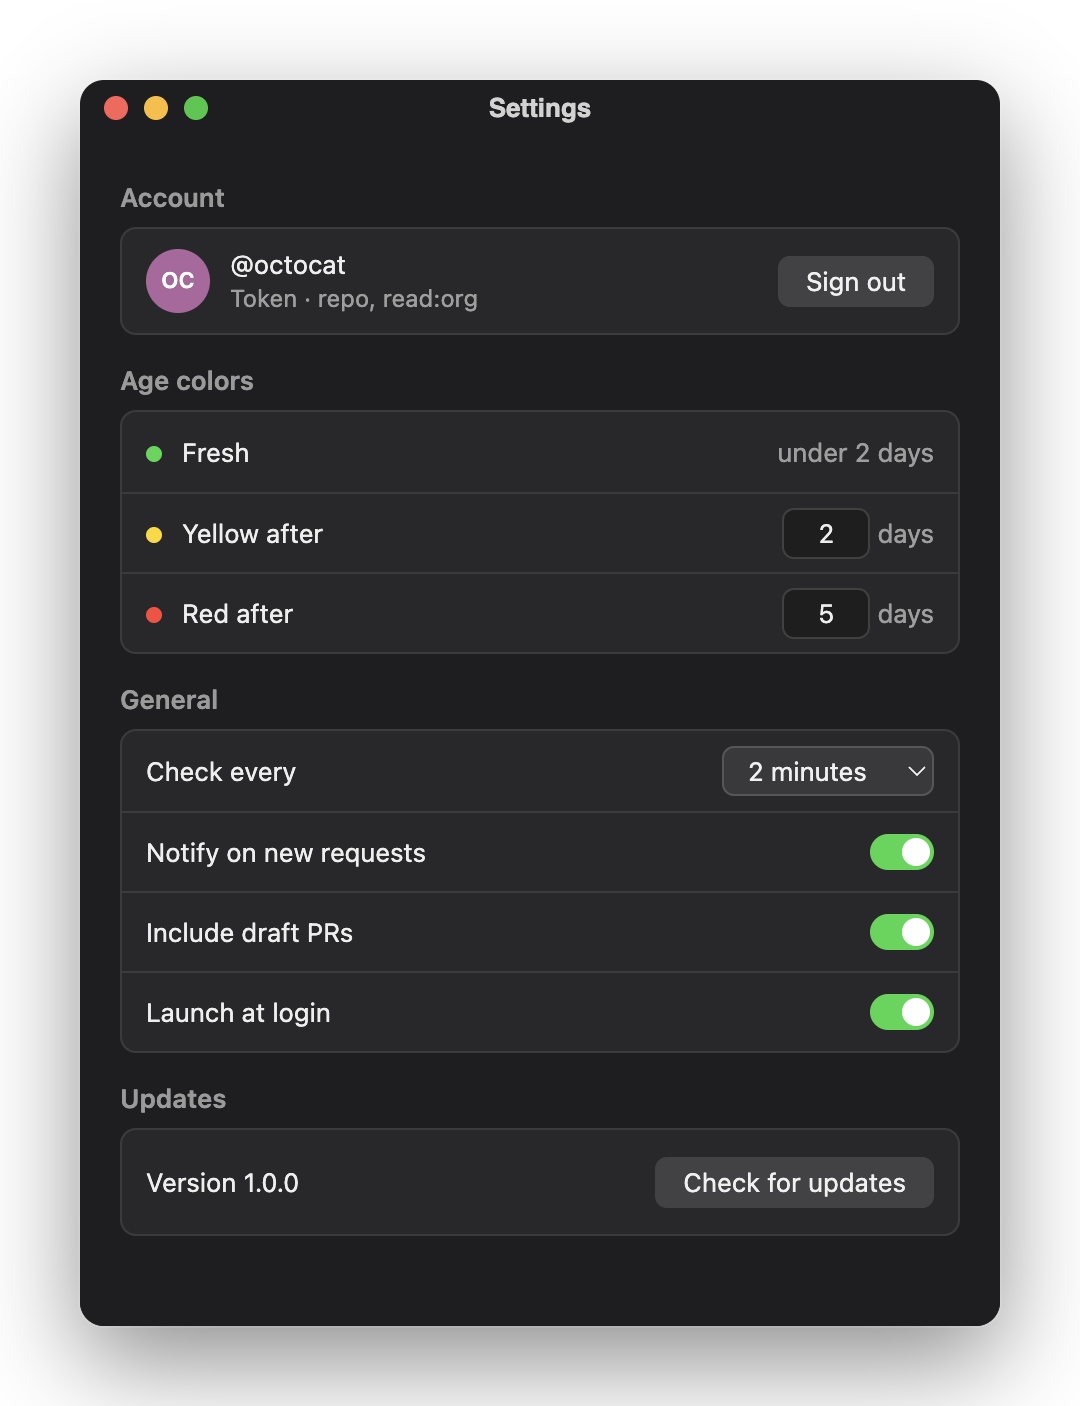
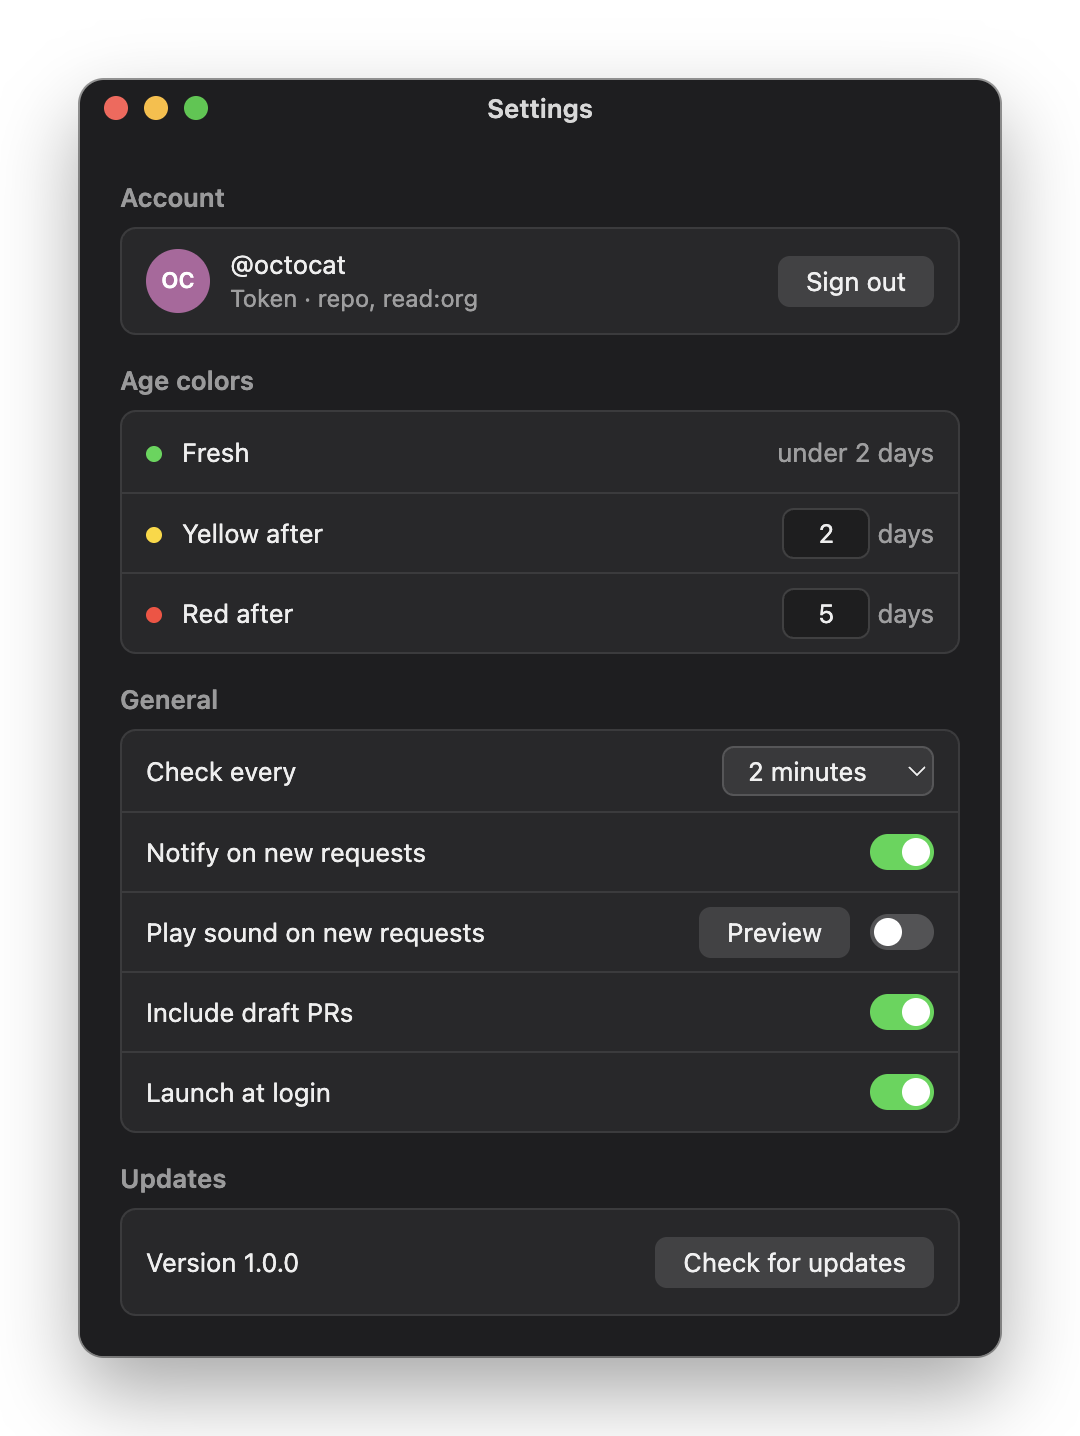
Add optional sound for new review requests

diff --git a/src/main/main.js b/src/main/main.js
@@ -1,4 +1,5 @@
 const path = require('node:path');
+const { execFile } = require('node:child_process');
 const { pathToFileURL } = require('node:url');
 const {
   app,
@@ -26,6 +27,9 @@ const RENDERER_URL = `${pathToFileURL(RENDERER).href}/`;
 const PRELOAD = path.join(__dirname, '..', 'preload.js');
 const MAX_TRAY_IMAGE_LENGTH = 500_000;
 const TRAY_REOPEN_GUARD_MS = 250;
+const SOUND = app.isPackaged
+  ? path.join(process.resourcesPath, 'new-request.mp3')
+  : path.join(__dirname, '..', '..', 'assets', 'new-request.mp3');
 
 let tray = null;
 let panel = null;
@@ -89,9 +93,15 @@ function push() {
   if (panel && !panel.isDestroyed()) panel.webContents.send('state', currentView());
 }
 
-function notify({ title, subtitle, body, url }) {
+function playSound() {
+  execFile('/usr/bin/afplay', [SOUND], (error) => {
+    if (error) console.warn('Could not play the notification sound:', error.message);
+  });
+}
+
+function notify({ title, subtitle, body, url, silent = false }) {
   if (!Notification.isSupported()) return;
-  const notification = new Notification({ title, subtitle, body, silent: false });
+  const notification = new Notification({ title, subtitle, body, silent });
   liveNotifications.add(notification);
   const release = () => liveNotifications.delete(notification);
   notification.on('click', () => {
@@ -117,9 +127,17 @@ function recordRequests() {
   }
   store.update({ known: Object.fromEntries(tracked.known), unseen, initialized: true, knownWithTeams: hasTeams });
   if (!settings.notify) return;
-  for (const pr of tracked.fresh.filter(isVisible)) {
-    notify({ title: 'New review request', subtitle: `${pr.repo} #${pr.number} · ${pr.author}`, body: pr.title, url: pr.url });
+  const fresh = tracked.fresh.filter(isVisible);
+  for (const pr of fresh) {
+    notify({
+      title: 'New review request',
+      subtitle: `${pr.repo} #${pr.number} · ${pr.author}`,
+      body: pr.title,
+      url: pr.url,
+      silent: true,
+    });
   }
+  if (fresh.length > 0 && settings.sound) playSound();
 }
 
 async function poll() {
@@ -315,7 +333,7 @@ function showSettings() {
   }
   settingsWindow = new BrowserWindow({
     width: 460,
-    height: 595,
+    height: 642,
     resizable: false,
     minimizable: false,
     maximizable: false,
@@ -341,6 +359,7 @@ function settingsView() {
     intervalMinutes: settings.intervalMinutes,
     intervals: INTERVALS,
     notify: settings.notify,
+    sound: settings.sound,
     includeDrafts: settings.includeDrafts,
     launchAtLogin: app.getLoginItemSettings().openAtLogin,
     version: app.getVersion(),
@@ -385,6 +404,7 @@ function registerIpc() {
   on('open-settings', showSettings);
   on('quit', () => app.quit());
   on('close-panel', hidePanel);
+  on('preview-sound', playSound);
 
   on('panel-height', (_event, height) => {
     const value = Math.min(Math.max(Math.ceil(Number(height) || 0), 120), PANEL_MAX_HEIGHT);
@@ -413,6 +433,7 @@ function registerIpc() {
       redDays: Number(input.redDays),
       intervalMinutes: Number(input.intervalMinutes),
       notify: Boolean(input.notify),
+      sound: Boolean(input.sound),
       includeDrafts: Boolean(input.includeDrafts),
     });
     if (app.getLoginItemSettings().openAtLogin !== Boolean(input.launchAtLogin)) {

diff --git a/src/renderer/settings.js b/src/renderer/settings.js
@@ -3,6 +3,7 @@ const fields = {
   redDays: document.getElementById('red-days'),
   intervalMinutes: document.getElementById('interval'),
   notify: document.getElementById('notify'),
+  sound: document.getElementById('sound'),
   includeDrafts: document.getElementById('include-drafts'),
   launchAtLogin: document.getElementById('launch-at-login'),
 };
@@ -31,6 +32,8 @@ function fill(settings) {
   fields.redDays.value = settings.redDays;
   fields.intervalMinutes.value = String(settings.intervalMinutes);
   fields.notify.checked = settings.notify;
+  fields.sound.checked = settings.sound;
+  fields.sound.disabled = !settings.notify;
   fields.includeDrafts.checked = settings.includeDrafts;
   fields.launchAtLogin.checked = settings.launchAtLogin;
   freshLabel.textContent = `under ${plural(settings.yellowDays, 'day')}`;
@@ -42,6 +45,7 @@ function collect() {
     redDays: fields.redDays.valueAsNumber,
     intervalMinutes: Number(fields.intervalMinutes.value),
     notify: fields.notify.checked,
+    sound: fields.sound.checked,
     includeDrafts: fields.includeDrafts.checked,
     launchAtLogin: fields.launchAtLogin.checked,
   };
@@ -62,10 +66,13 @@ async function save() {
     return;
   }
   showError(null);
+  fields.sound.disabled = !result.settings.notify;
   freshLabel.textContent = `under ${plural(result.settings.yellowDays, 'day')}`;
 }
 
 for (const field of Object.values(fields)) field.addEventListener('change', save);
+
+document.getElementById('preview-sound').addEventListener('click', () => window.radar.previewSound());
 
 document.getElementById('sign-out').addEventListener('click', () => window.radar.signOut());
 

diff --git a/src/renderer/settings.html b/src/renderer/settings.html
@@ -56,6 +56,13 @@
             <span>Notify on new requests</span>
             <input type="checkbox" role="switch" class="switch" id="notify" />
           </label>
+          <div class="item">
+            <label for="sound">Play sound on new requests</label>
+            <span class="controls">
+              <button class="btn" id="preview-sound" type="button">Preview</button>
+              <input type="checkbox" role="switch" class="switch" id="sound" />
+            </span>
+          </div>
           <label class="item">
             <span>Include draft PRs</span>
             <input type="checkbox" role="switch" class="switch" id="include-drafts" />

diff --git a/src/preload.js b/src/preload.js
@@ -7,6 +7,7 @@ contextBridge.exposeInMainWorld('radar', {
   openQueue: () => ipcRenderer.send('open-queue'),
   openSettings: () => ipcRenderer.send('open-settings'),
   closePanel: () => ipcRenderer.send('close-panel'),
+  previewSound: () => ipcRenderer.send('preview-sound'),
   quit: () => ipcRenderer.send('quit'),
   setPanelHeight: (height) => ipcRenderer.send('panel-height', height),
   setTrayImage: (image) => ipcRenderer.send('tray-image', image),

diff --git a/src/renderer/settings.css b/src/renderer/settings.css
@@ -36,6 +36,17 @@ h2 {
   color: var(--text-dim);
 }
 
+.controls {
+  display: flex;
+  align-items: center;
+  gap: 10px;
+}
+
+.switch:disabled {
+  opacity: 0.4;
+  cursor: default;
+}
+
 .dot {
   display: inline-block;
   width: 8px;

diff --git a/src/main/store.js b/src/main/store.js
@@ -7,6 +7,7 @@ const DEFAULTS = {
   redDays: 5,
   intervalMinutes: 2,
   notify: true,
+  sound: false,
   includeDrafts: true,
   login: null,
   scopes: null,

diff --git a/README.md b/README.md
@@ -14,7 +14,7 @@ Built with Electron. No runtime dependencies.
 - **Ages that mean something.** The age counts from the latest review request sent to you or one of your teams, not from when the pull request was opened. If there is no such request, it falls back to the opening time.
 - **Color as a nudge.** Pills turn yellow after 2 days and red after 5. You can change both in Settings.
 - **A menu bar icon you can read at a glance.** It shows the count, takes the color of the oldest request, and turns blue with a `+N` badge when something new arrives.
-- **Notifications.** One banner per new review request, and a 9:00 summary when something is past the red threshold.
+- **Notifications.** One banner per new review request, and a 9:00 summary when something is past the red threshold. You can also turn on a short chime for new requests in Settings and preview it there.
 - **Keyboard friendly.** `⌘R` refreshes, `⌘O` opens your review queue on GitHub, `⌘,` opens Settings, `Esc` closes the panel.
 
 ### Menu bar icon
